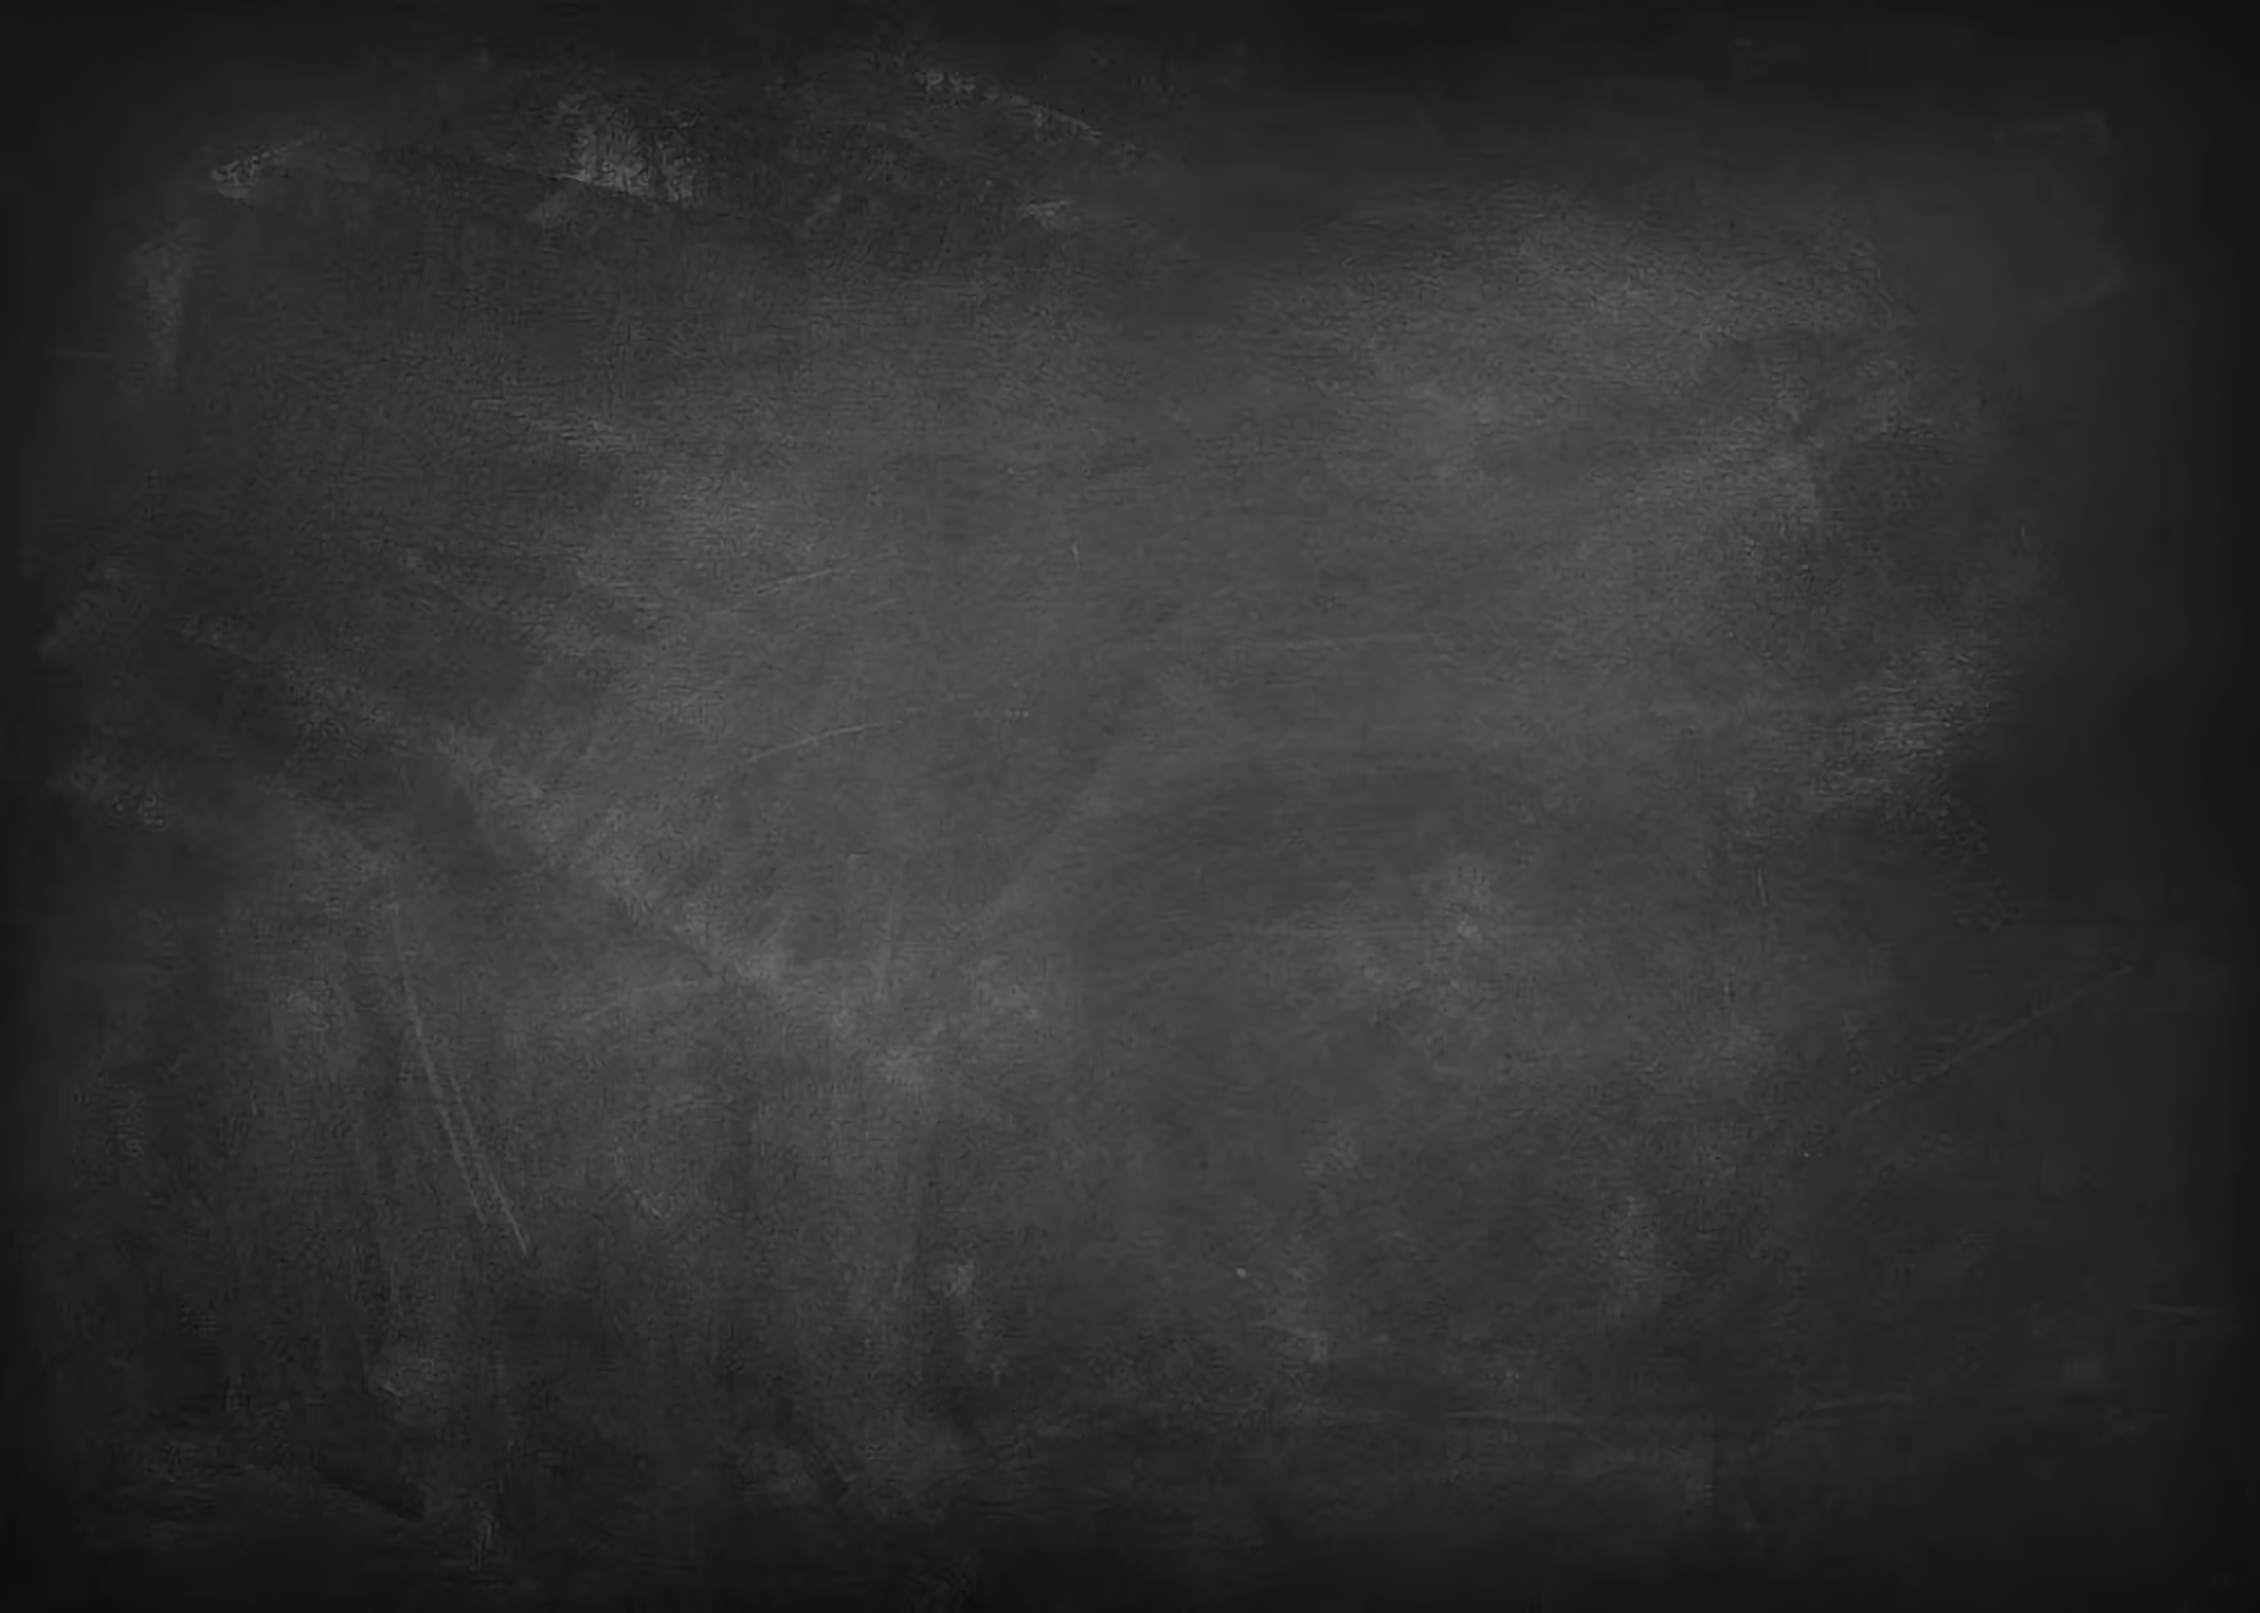
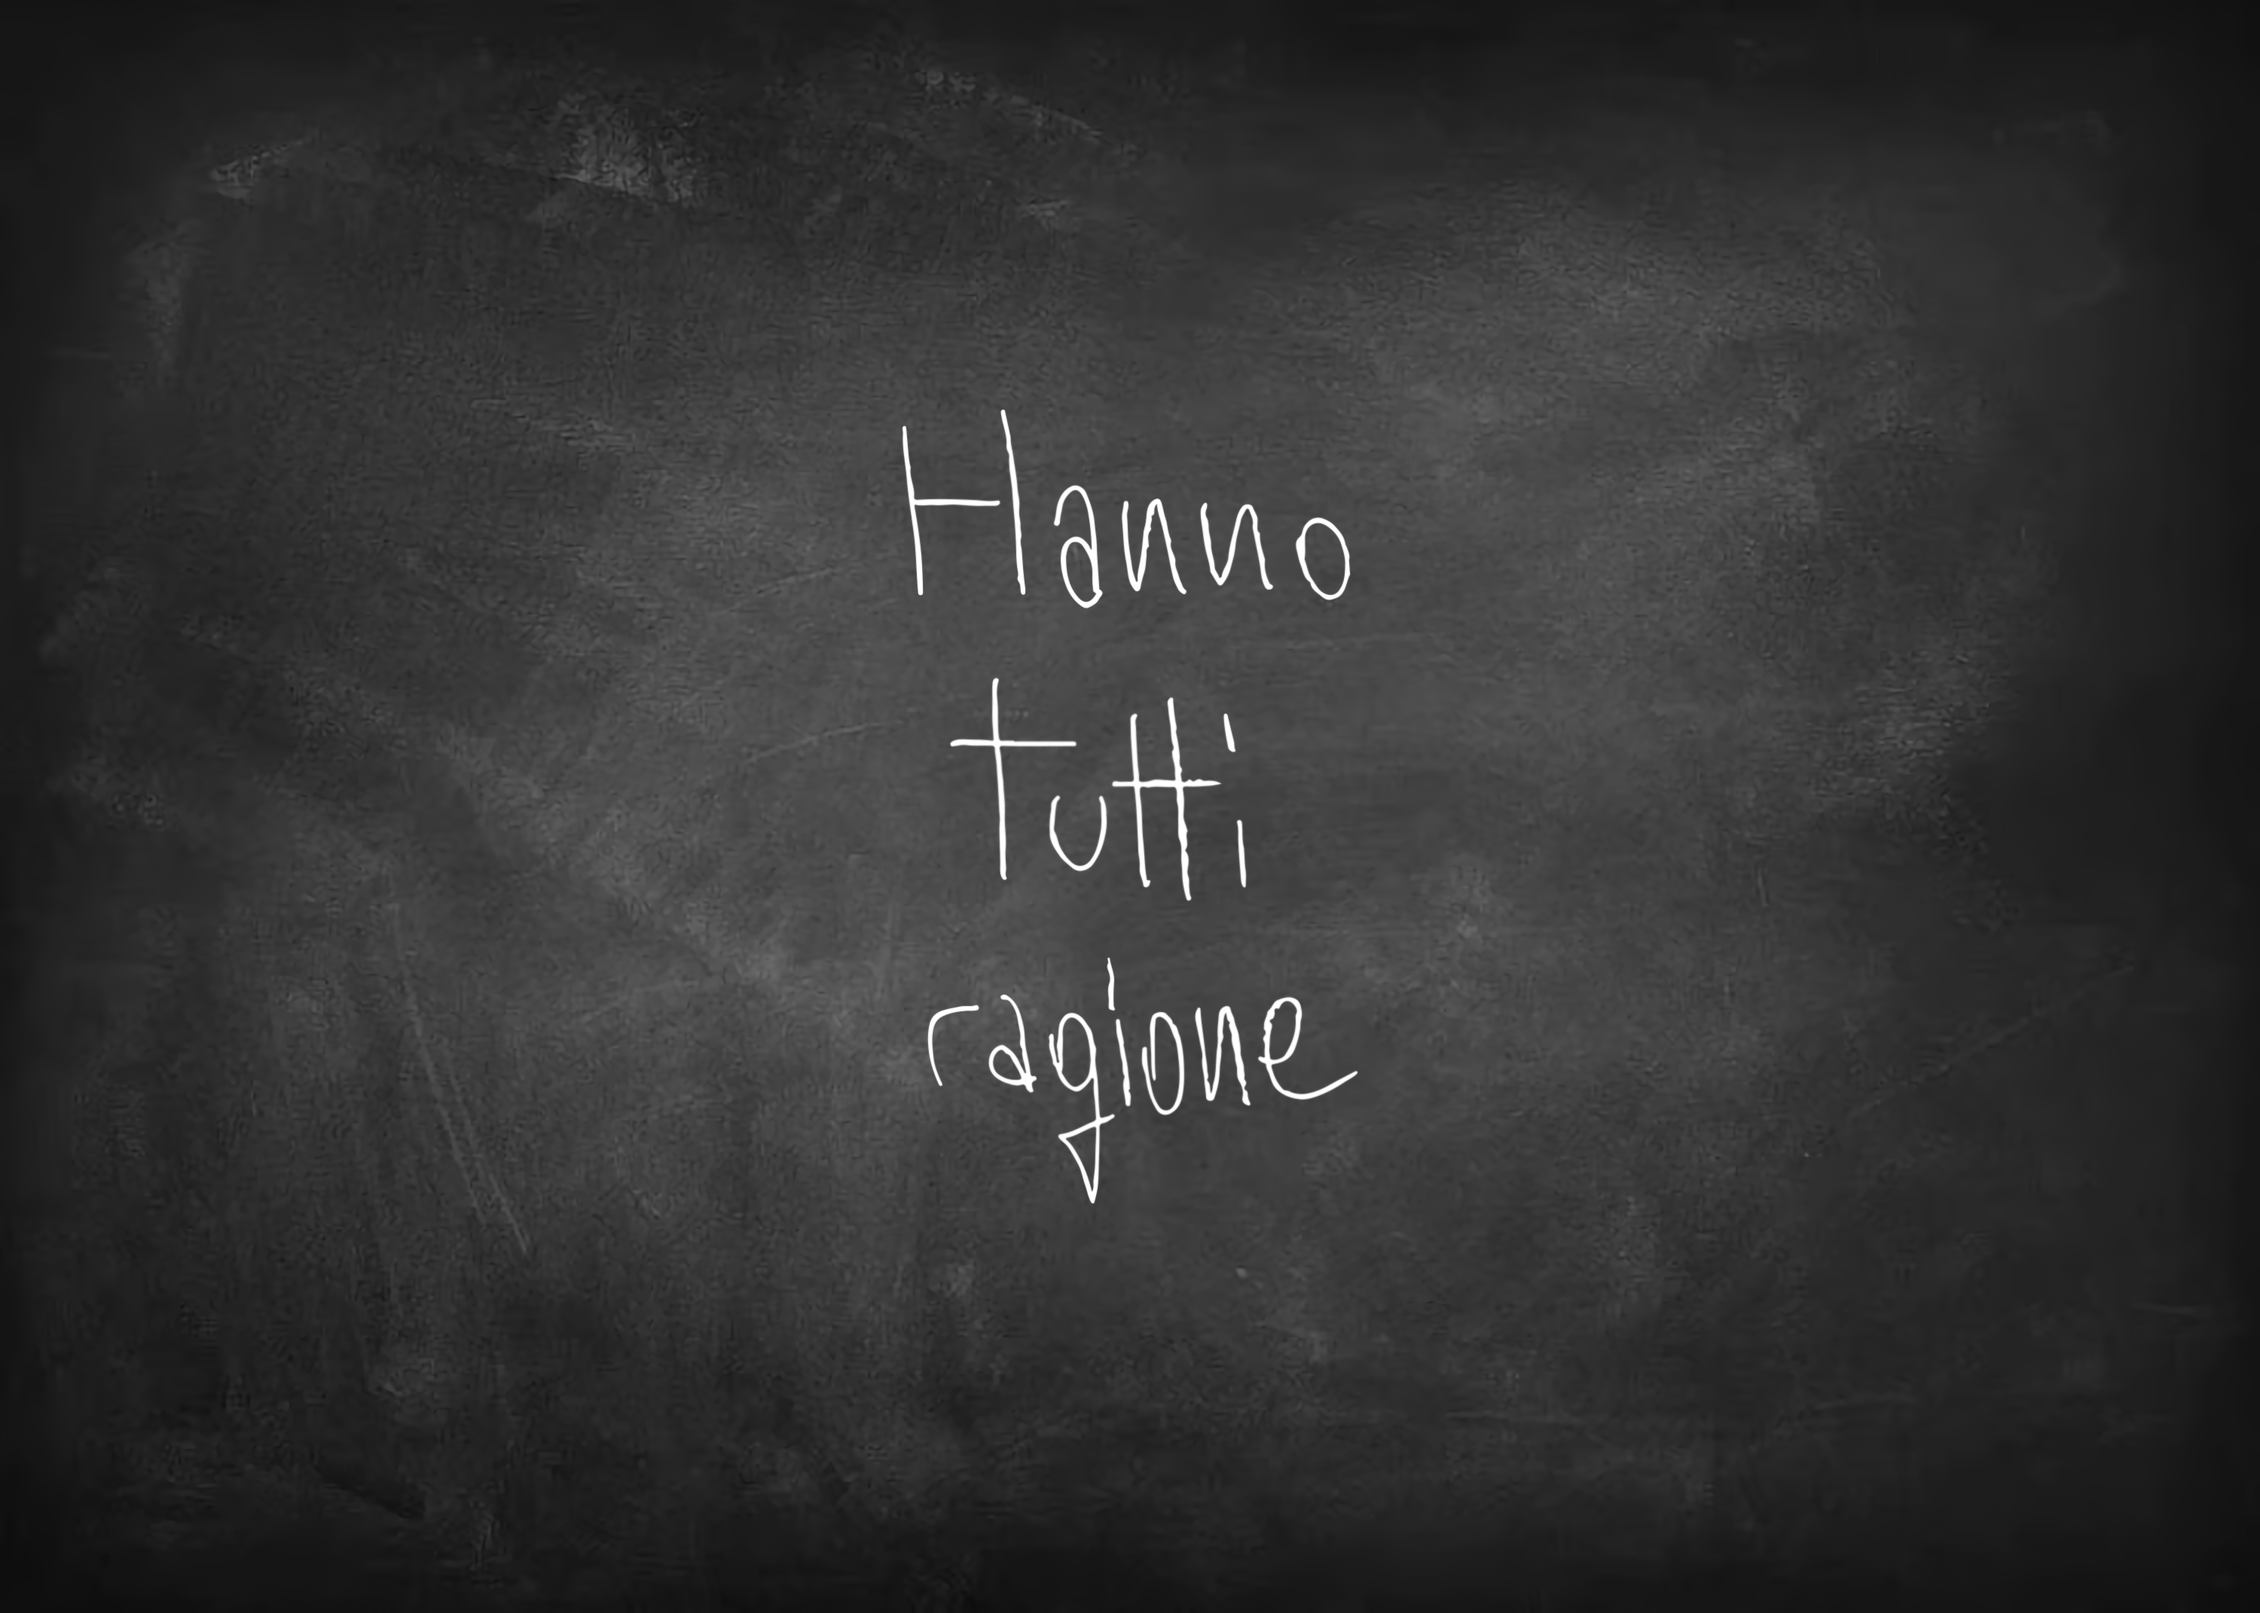
reduced line height for FacciamoServizi text. Fixed X link in footer and fixed navbar to fit in one box avoiding scroll on mobile

diff --git a/src/components/Navbar/Navbar.css b/src/components/Navbar/Navbar.css
@@ -229,13 +229,13 @@
 
   .mobileNavPanel{
     width: min(84vw, 360px);
-    max-height: 54svh;
+    max-height: min(72svh, 640px);
     border-radius: 26px;
     padding: 18px 16px;
     border: 1px solid var(--glass-border);
     background: color-mix(in srgb, var(--glass-bg) 95%, rgba(11,18,32,0.1));
     box-shadow: var(--shadow-float), inset 0 1px 0 var(--glass-highlight);
-    overflow-y: auto;
+    overflow: hidden;
     transform: translateY(16px) scale(0.985);
     transition: transform 250ms cubic-bezier(.2,.75,.2,1);
   }
@@ -339,11 +339,16 @@
   }
 
   .mobileNavOverlay.isOnLight .mobileNavLink,
-  .mobileNavOverlay.isOnLight .mobileTalksLink,
-  .mobileNavOverlay.isOnLight .mobileNavSocialIcon{
+  .mobileNavOverlay.isOnLight .mobileTalksLink{
     color: rgba(0,0,0,0.78);
-    border-color: rgba(0,0,0,0.12);
-    background: rgba(255,255,255,0.65);
+    border-color: transparent;
+    background: transparent;
+  }
+
+  .mobileNavOverlay.isOnLight .mobileNavSocialIcon{
+    color: rgba(0,0,0,0.72);
+    border-color: rgba(0,0,0,0.16);
+    background: rgba(255,255,255,0.55);
   }
 
   .mobileNavOverlay.isOnLight .mobileNavLink.isActive{

diff --git a/src/Home.jsx b/src/Home.jsx
@@ -151,7 +151,7 @@ export default function Home() {
             id="top"
             src={heroImg}
             alt="Hero"
-            title={<>Hanno<br/>Tutti<br/>Ragione</>}
+            // title={<>Hanno<br/>Tutti<br/>Ragione</>}
             durationPx={900}
           />
 
@@ -181,7 +181,7 @@ export default function Home() {
 
           <Human
             id="human"
-            kicker="HUMAN DATA"
+            kicker="HUMAN"
             title="Trasformare l’ascolto in direzione"
             paragraphs={[
               "Human è la piattaforma di web e social listening di Spin Factor, sviluppata con Osservatorio Social. Analizza conversazioni, trend e performance, misura sentiment e reputazione e restituisce insight chiari e utilizzabili.",
@@ -193,8 +193,7 @@ export default function Home() {
           <Press id="press" items={PRESS_ITEMS} />
 
           <Footer
-            facebookHref="#"
-            xHref="#"
+            xHref="https://x.com/SpinFactorIT"
             privacyHref="/privacy-policy"
             cookieHref="/cookie-policy"
           />

diff --git a/src/components/Footer/Footer.jsx b/src/components/Footer/Footer.jsx
@@ -208,11 +208,6 @@ export default function Footer({
                   aria-label="X"
                   target="_blank"
                   rel="noreferrer"
-                  onClick={(e) => {
-                    e.preventDefault();
-                    e.stopPropagation();
-                    window.open(xHref, "_blank", "noopener,noreferrer");
-                  }}
                 >
                   <FaXTwitter />
                 </a>

diff --git a/src/components/Facciamo/FacciamoServizi.css b/src/components/Facciamo/FacciamoServizi.css
@@ -72,7 +72,7 @@
 
 .facSvcTextWrap{
   display: grid;
-  gap: 10px;
+  gap: 0;
 }
 
 .facSvcText{
